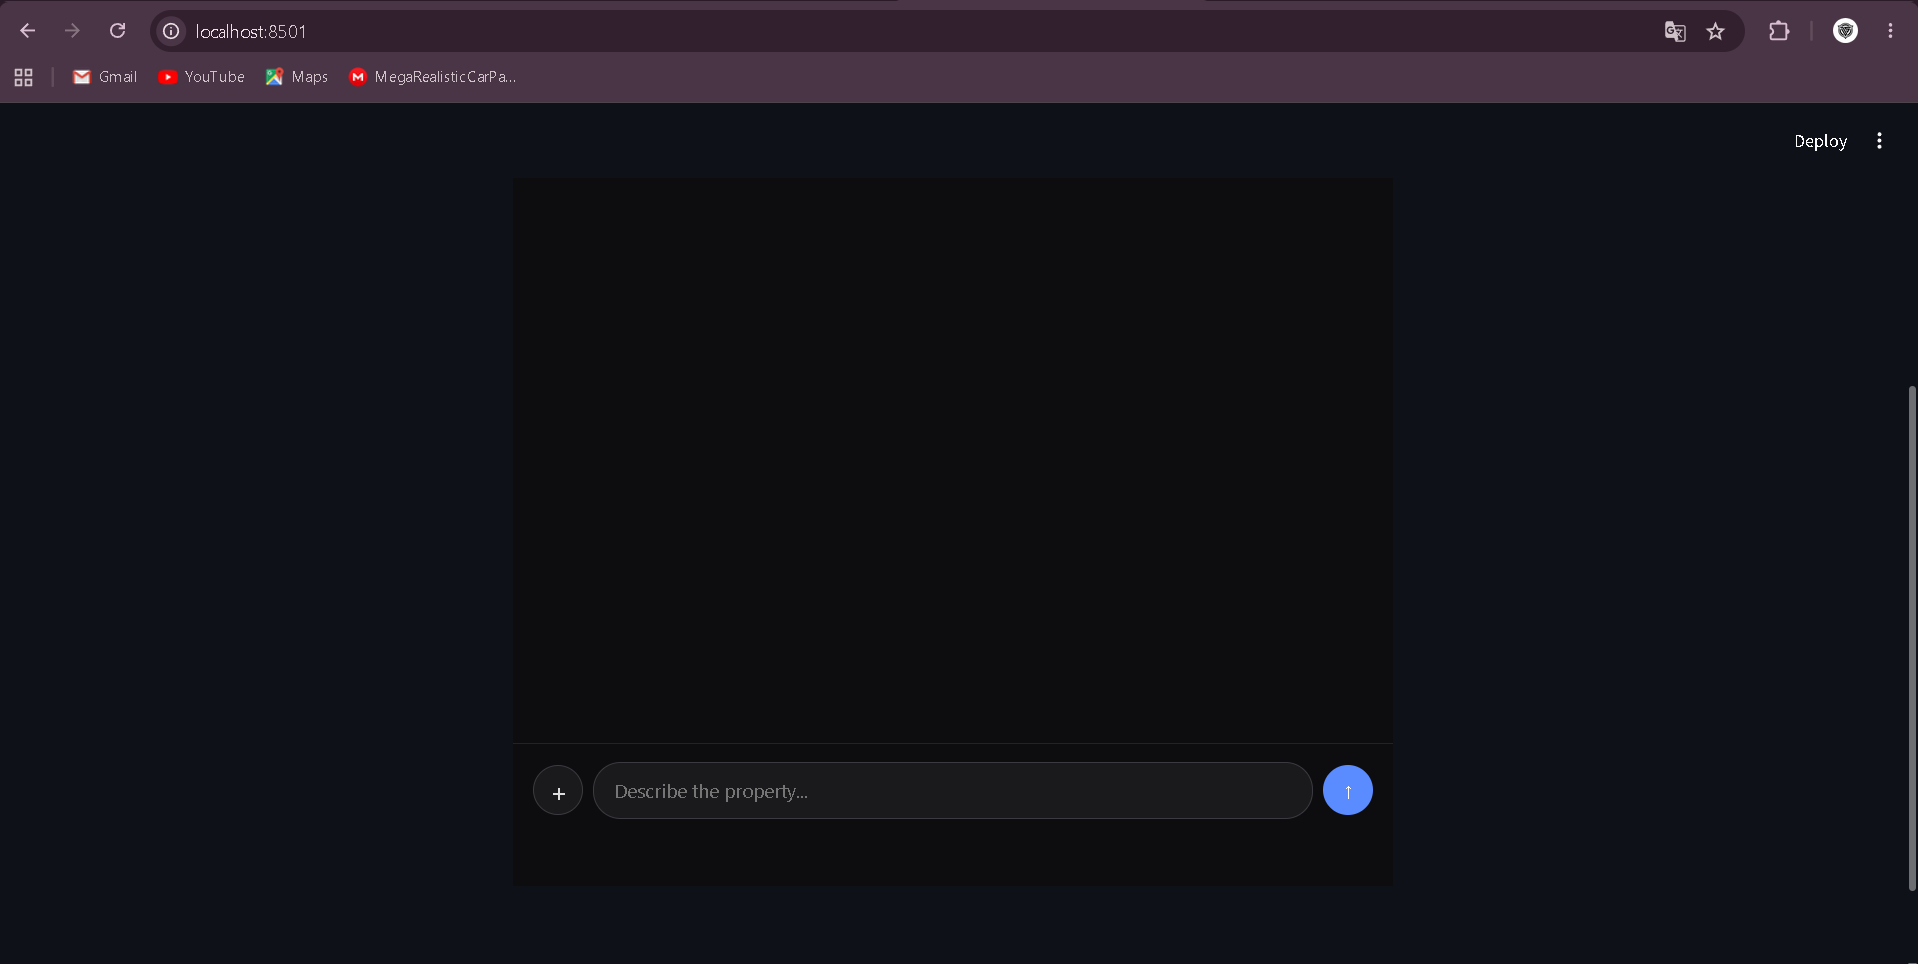
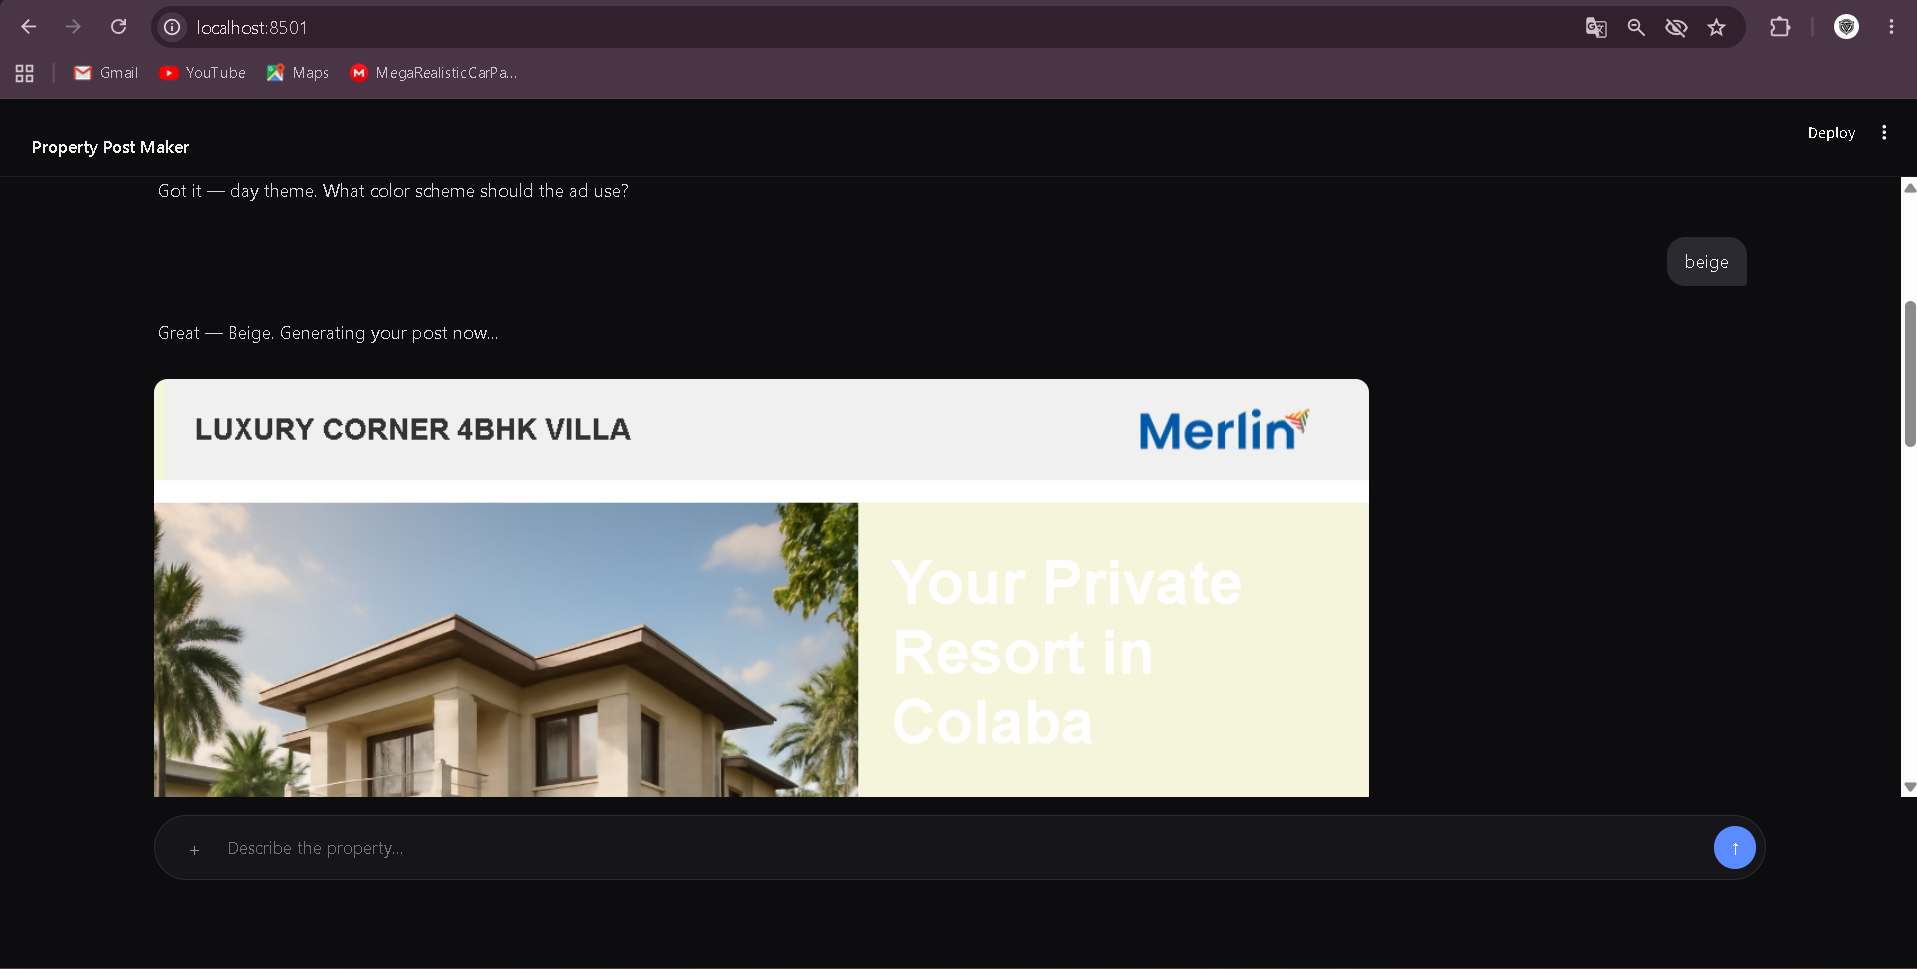
Shrink the generated poster, add hover-download, fit viewport, add Puter login card
- Poster now renders as a small (~260px) inline thumbnail instead of
  filling the screen; a circular download icon fades in over its
  top-right corner on hover, replacing the dedicated Download button.
- The component now measures the real browser viewport (via
  window.frameElement, same-origin srcdoc iframe) and sizes itself to
  fit exactly, instead of a fixed Python-side height, so the page
  never scrolls regardless of screen size or zoom; re-measures on
  window resize.
- Added a dismissible floating card top-right prompting sign-in with
  a free Puter account, with a "Login with Puter" button
  (puter.auth.signIn()); auto-hides if puter.auth.isSignedIn() is
  already true. Positioned absolute within #app rather than
  position:fixed, which rendered off-screen inside the iframe.

diff --git a/generator_template.py b/generator_template.py
@@ -17,7 +17,7 @@ _TEMPLATE = r"""
 <style>
   * { box-sizing: border-box; font-family: -apple-system, Segoe UI, Roboto, Arial, sans-serif; }
   html, body { margin: 0; height: 100%; background: #0d0d0f; }
-  #app { display: flex; flex-direction: column; height: 100%; width: 100%; background: #0d0d0f; color: #e8e8ea; }
+  #app { position: relative; display: flex; flex-direction: column; height: 100%; width: 100%; background: #0d0d0f; color: #e8e8ea; }
   #topbar { flex: none; padding: 16px 28px; border-bottom: 1px solid #1c1c1f; font-size: 15px; font-weight: 600; color: #eee; }
   #log { flex: 1; overflow-y: auto; padding: 24px clamp(16px, 8vw, 220px); display: flex; flex-direction: column; }
   #log.empty { justify-content: center; }
@@ -36,12 +36,21 @@ _TEMPLATE = r"""
   .status-line { display: flex; align-items: center; gap: 8px; color: #a8a8ae; font-size: 14px; margin: 4px 0 10px 4px; }
   .spark { display: inline-block; width: 10px; height: 10px; border-radius: 50%; background: #7c8cff; animation: pulse 1s ease-in-out infinite; }
   @keyframes pulse { 0%,100% { opacity: .3; transform: scale(.8);} 50% { opacity: 1; transform: scale(1.1);} }
-  .shimmer-box { width: 100%; max-width: 420px; aspect-ratio: 1080 / 1527; border-radius: 16px;
+  .shimmer-box { width: 100%; max-width: 260px; aspect-ratio: 1080 / 1527; border-radius: 16px;
     background: linear-gradient(110deg, #19191c 8%, #29292f 18%, #19191c 33%); background-size: 250% 100%;
     animation: shimmer 1.4s linear infinite; }
   @keyframes shimmer { to { background-position-x: -250%; } }
-  .poster-wrap img { max-width: 100%; border-radius: 12px; display: block; }
-  #downloadBtn { display: inline-block; margin-top: 10px; padding: 9px 18px; background: #16a34a; color: white; border-radius: 8px; text-decoration: none; font-weight: 600; font-size: 14px; }
+  .poster-wrap { position: relative; display: inline-block; max-width: 260px; }
+  .poster-wrap img { width: 100%; border-radius: 12px; display: block; }
+  .poster-wrap #downloadBtn { position: absolute; top: 8px; right: 8px; width: 34px; height: 34px; display: flex;
+    align-items: center; justify-content: center; border-radius: 50%; background: rgba(20,20,22,.85);
+    color: white; text-decoration: none; font-size: 16px; opacity: 0; transition: opacity .15s; }
+  .poster-wrap:hover #downloadBtn { opacity: 1; }
+  #loginCard { position: absolute; top: 16px; right: 16px; width: 220px; background: #16161a; border: 1px solid #2c2c30;
+    border-radius: 14px; padding: 14px 16px; box-shadow: 0 8px 24px rgba(0,0,0,.4); z-index: 20; }
+  #loginCard p { margin: 0 0 10px; font-size: 13px; color: #ccc; line-height: 1.4; }
+  #loginBtn { width: 100%; padding: 9px 0; border: none; border-radius: 8px; background: #5b8cff; color: white; font-size: 13px; font-weight: 600; cursor: pointer; }
+  #loginClose { position: absolute; top: 6px; right: 9px; background: none; border: none; color: #777; cursor: pointer; font-size: 14px; line-height: 1; }
   #modalOverlay { position: fixed; inset: 0; background: rgba(0,0,0,.6); display: none; align-items: center; justify-content: center; z-index: 10; }
   #modalOverlay.open { display: flex; }
   #modalCard { background: #1a1a1d; border: 1px solid #333; border-radius: 14px; padding: 22px; width: 320px; color: #eee; }
@@ -54,6 +63,11 @@ _TEMPLATE = r"""
   #modalCancel { background: #33333a; color: #ddd; }
 </style>
 <div id="app">
+  <div id="loginCard">
+    <button id="loginClose">&times;</button>
+    <p>Sign in with your free Puter account to generate AI images.</p>
+    <button id="loginBtn">Login with Puter</button>
+  </div>
   <div id="topbar">Property Post Maker</div>
   <div id="log" class="empty"><div id="greeting">Describe the property you want to advertise</div></div>
   <div id="modalOverlay">
@@ -92,6 +106,31 @@ let collectedText = '';
 let fields = { property_type: null, location: null, price: null, highlights: null };
 let resolvedTheme = null;
 let resolvedColor = null;
+
+// Size this iframe to the actual visible viewport instead of a fixed Python-side
+// height, so the page never scrolls regardless of screen size/zoom.
+function fitFrame() {
+  try {
+    const fe = window.frameElement;
+    if (!fe) return;
+    const top = fe.getBoundingClientRect().top;
+    fe.style.height = Math.max(480, window.parent.innerHeight - top) + 'px';
+  } catch (e) { /* cross-origin fallback: keep Python-supplied height */ }
+}
+fitFrame();
+window.addEventListener('resize', fitFrame);
+try { window.parent.addEventListener('resize', fitFrame); } catch (e) {}
+
+const loginCard = document.getElementById('loginCard');
+function refreshLoginCard() {
+  try { if (puter.auth.isSignedIn()) loginCard.style.display = 'none'; } catch (e) {}
+}
+document.getElementById('loginClose').addEventListener('click', () => { loginCard.style.display = 'none'; });
+document.getElementById('loginBtn').addEventListener('click', async () => {
+  try { await puter.auth.signIn(); } catch (e) {}
+  refreshLoginCard();
+});
+refreshLoginCard();
 
 function scrollBottom() { logEl.scrollTop = logEl.scrollHeight; }
 
@@ -377,7 +416,8 @@ async function generatePost() {
     a.id = 'downloadBtn';
     a.href = dataUrl;
     a.download = (fields.property_type || 'property-post').replace(/[^a-z0-9]+/gi, '-').toLowerCase() + '.png';
-    a.textContent = 'Download Post';
+    a.title = 'Download';
+    a.innerHTML = '&#8681;';
     wrap.appendChild(a);
     row.appendChild(wrap);
     logEl.appendChild(row);
